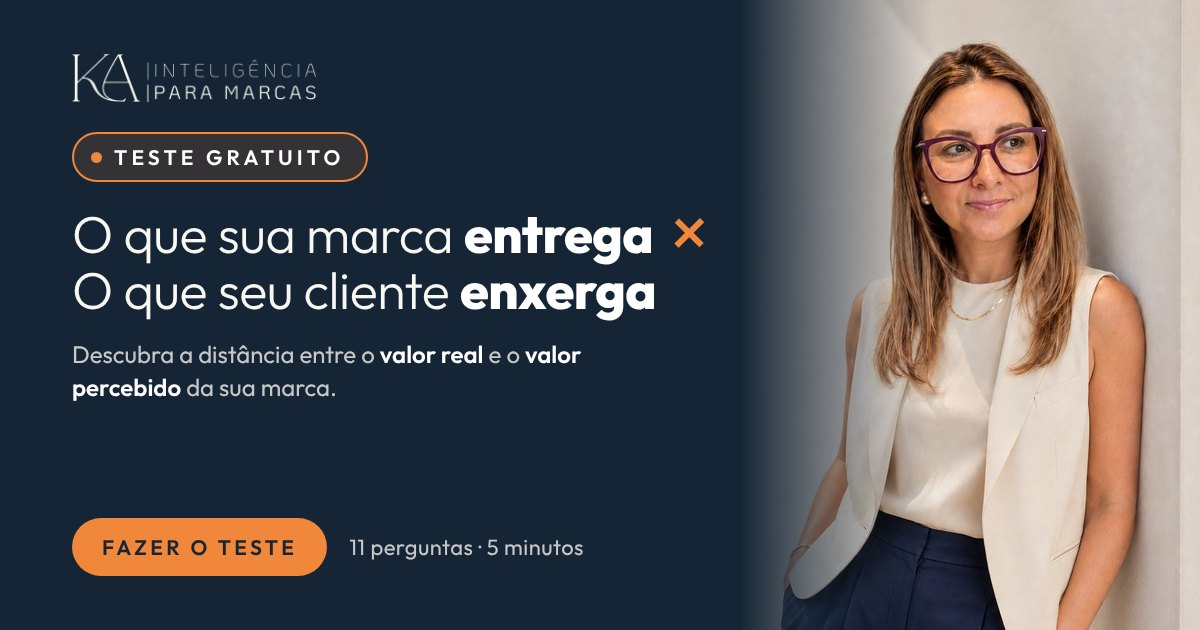
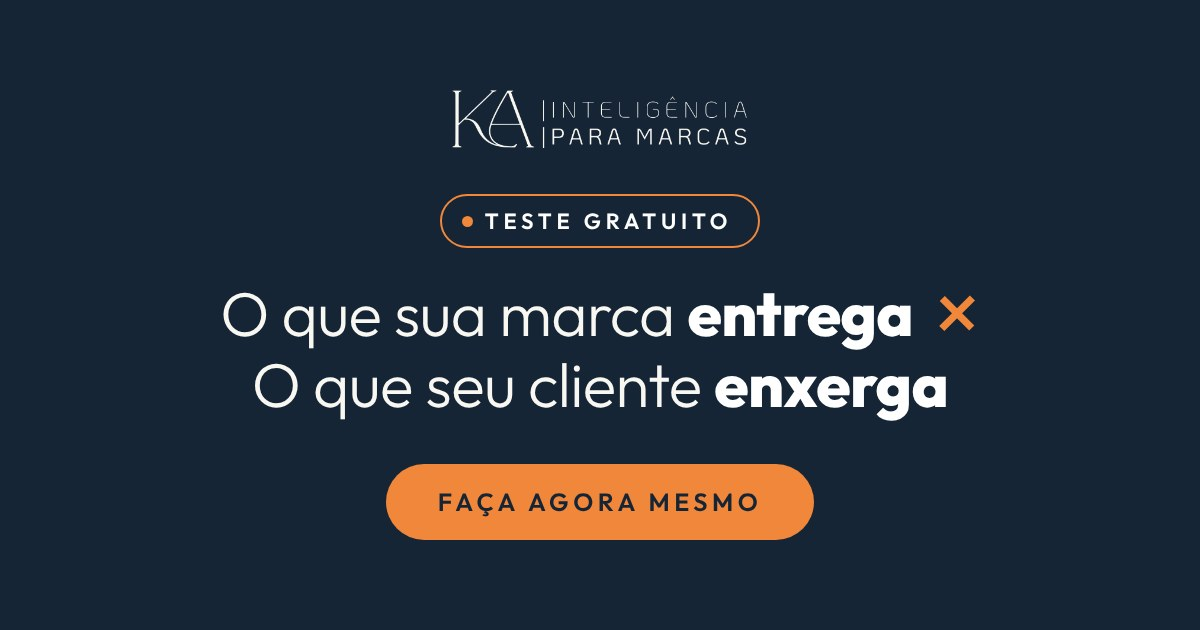
valorpercebido: leads no grupo do Diagnóstico (Automação Diagnóstico) e imagem do link simplificada
- mailerliteGroupId = 183324004183967092 (mesmo grupo do /autodiagnostico)
- Imagem do link: logo KA, selo Teste gratuito, título e botão "Faça agora mesmo"

Claude-Session: https://claude.ai/code/session_017aiGVMKn5tw4KpzB2qogrv

diff --git a/valorpercebido/index.html b/valorpercebido/index.html
@@ -7,16 +7,16 @@
 <meta property="og:title" content="Teste: O que sua marca entrega × O que seu cliente enxerga">
 <meta property="og:description" content="Teste gratuito, 11 perguntas e 5 minutos. Descubra a distância entre o valor real e o valor percebido da sua marca e receba o resultado na hora.">
 <meta property="og:site_name" content="KA | Inteligência para Marcas">
-<meta property="og:image" content="https://kellyalbert.com.br/images/og/og-valorpercebido.jpg?v=3">
-<meta property="og:image:secure_url" content="https://kellyalbert.com.br/images/og/og-valorpercebido.jpg?v=3">
+<meta property="og:image" content="https://kellyalbert.com.br/images/og/og-valorpercebido.jpg?v=4">
+<meta property="og:image:secure_url" content="https://kellyalbert.com.br/images/og/og-valorpercebido.jpg?v=4">
 <meta property="og:image:type" content="image/jpeg">
 <meta property="og:image:width" content="1200">
 <meta property="og:image:height" content="630">
-<meta property="og:image:alt" content="Teste gratuito: O que sua marca entrega × O que seu cliente enxerga, com Kelly Albert">
+<meta property="og:image:alt" content="Teste gratuito: O que sua marca entrega × O que seu cliente enxerga. Faça agora mesmo.">
 <meta property="og:url" content="https://kellyalbert.com.br/valorpercebido/">
 <meta property="og:locale" content="pt_BR">
 <meta name="twitter:card" content="summary_large_image">
-<meta name="twitter:image" content="https://kellyalbert.com.br/images/og/og-valorpercebido.jpg?v=3">
+<meta name="twitter:image" content="https://kellyalbert.com.br/images/og/og-valorpercebido.jpg?v=4">
 <meta name="theme-color" content="#152535">
 <link rel="icon" type="image/x-icon" href="/favicon.ico">
 <link rel="icon" type="image/png" sizes="32x32" href="/images/favicon-32x32.png">
@@ -255,7 +255,7 @@ button,input{font-family:inherit}
     aulaSubtitulo: 'Na crise, o cliente compara mais. Depois dela, ele fica com quem valorizou.',
     whatsapp: '5551993163333',
     instagram: 'https://www.instagram.com/kellyalbert.brand',
-    mailerliteGroupId: null,            // PENDENTE: id do grupo no MailerLite. null = entra sem grupo.
+    mailerliteGroupId: '183324004183967092', // grupo do Diagnóstico: dispara a "Automação Diagnóstico" no MailerLite
     origem: 'valorpercebido',
     storageKey: 'ka_raiox_marca_v2',
     leadKey: 'ka_raiox_marca_lead'
